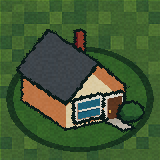
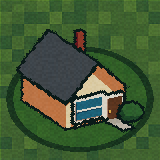
fix(studio): enlarge house2's picture window
Repositioning it off the door in the previous commit left it reading
smaller than intended at the same size; sized it up so it actually reads
as the 'large picture window' the scene comment describes.

Changed region(s): [[0.4375, 0.5625, 0.6875, 0.8125]]

diff --git a/studio/scenes/house2.py b/studio/scenes/house2.py
@@ -14,7 +14,7 @@ WALL_W, WALL_D, WALL_H = 2.2, 1.7, 0.85
 ROOF_H = 0.85
 ROOF_OVERHANG_EAVE = 0.075
 ROOF_OVERHANG_RAKE = 0.15
-WIN_W, WIN_H = 0.62, 0.42
+WIN_W, WIN_H = 0.72, 0.48
 DOOR_W, DOOR_H = 0.4, 0.62
 CHIM_SIZE, CHIM_H = 0.22, 0.62
 
